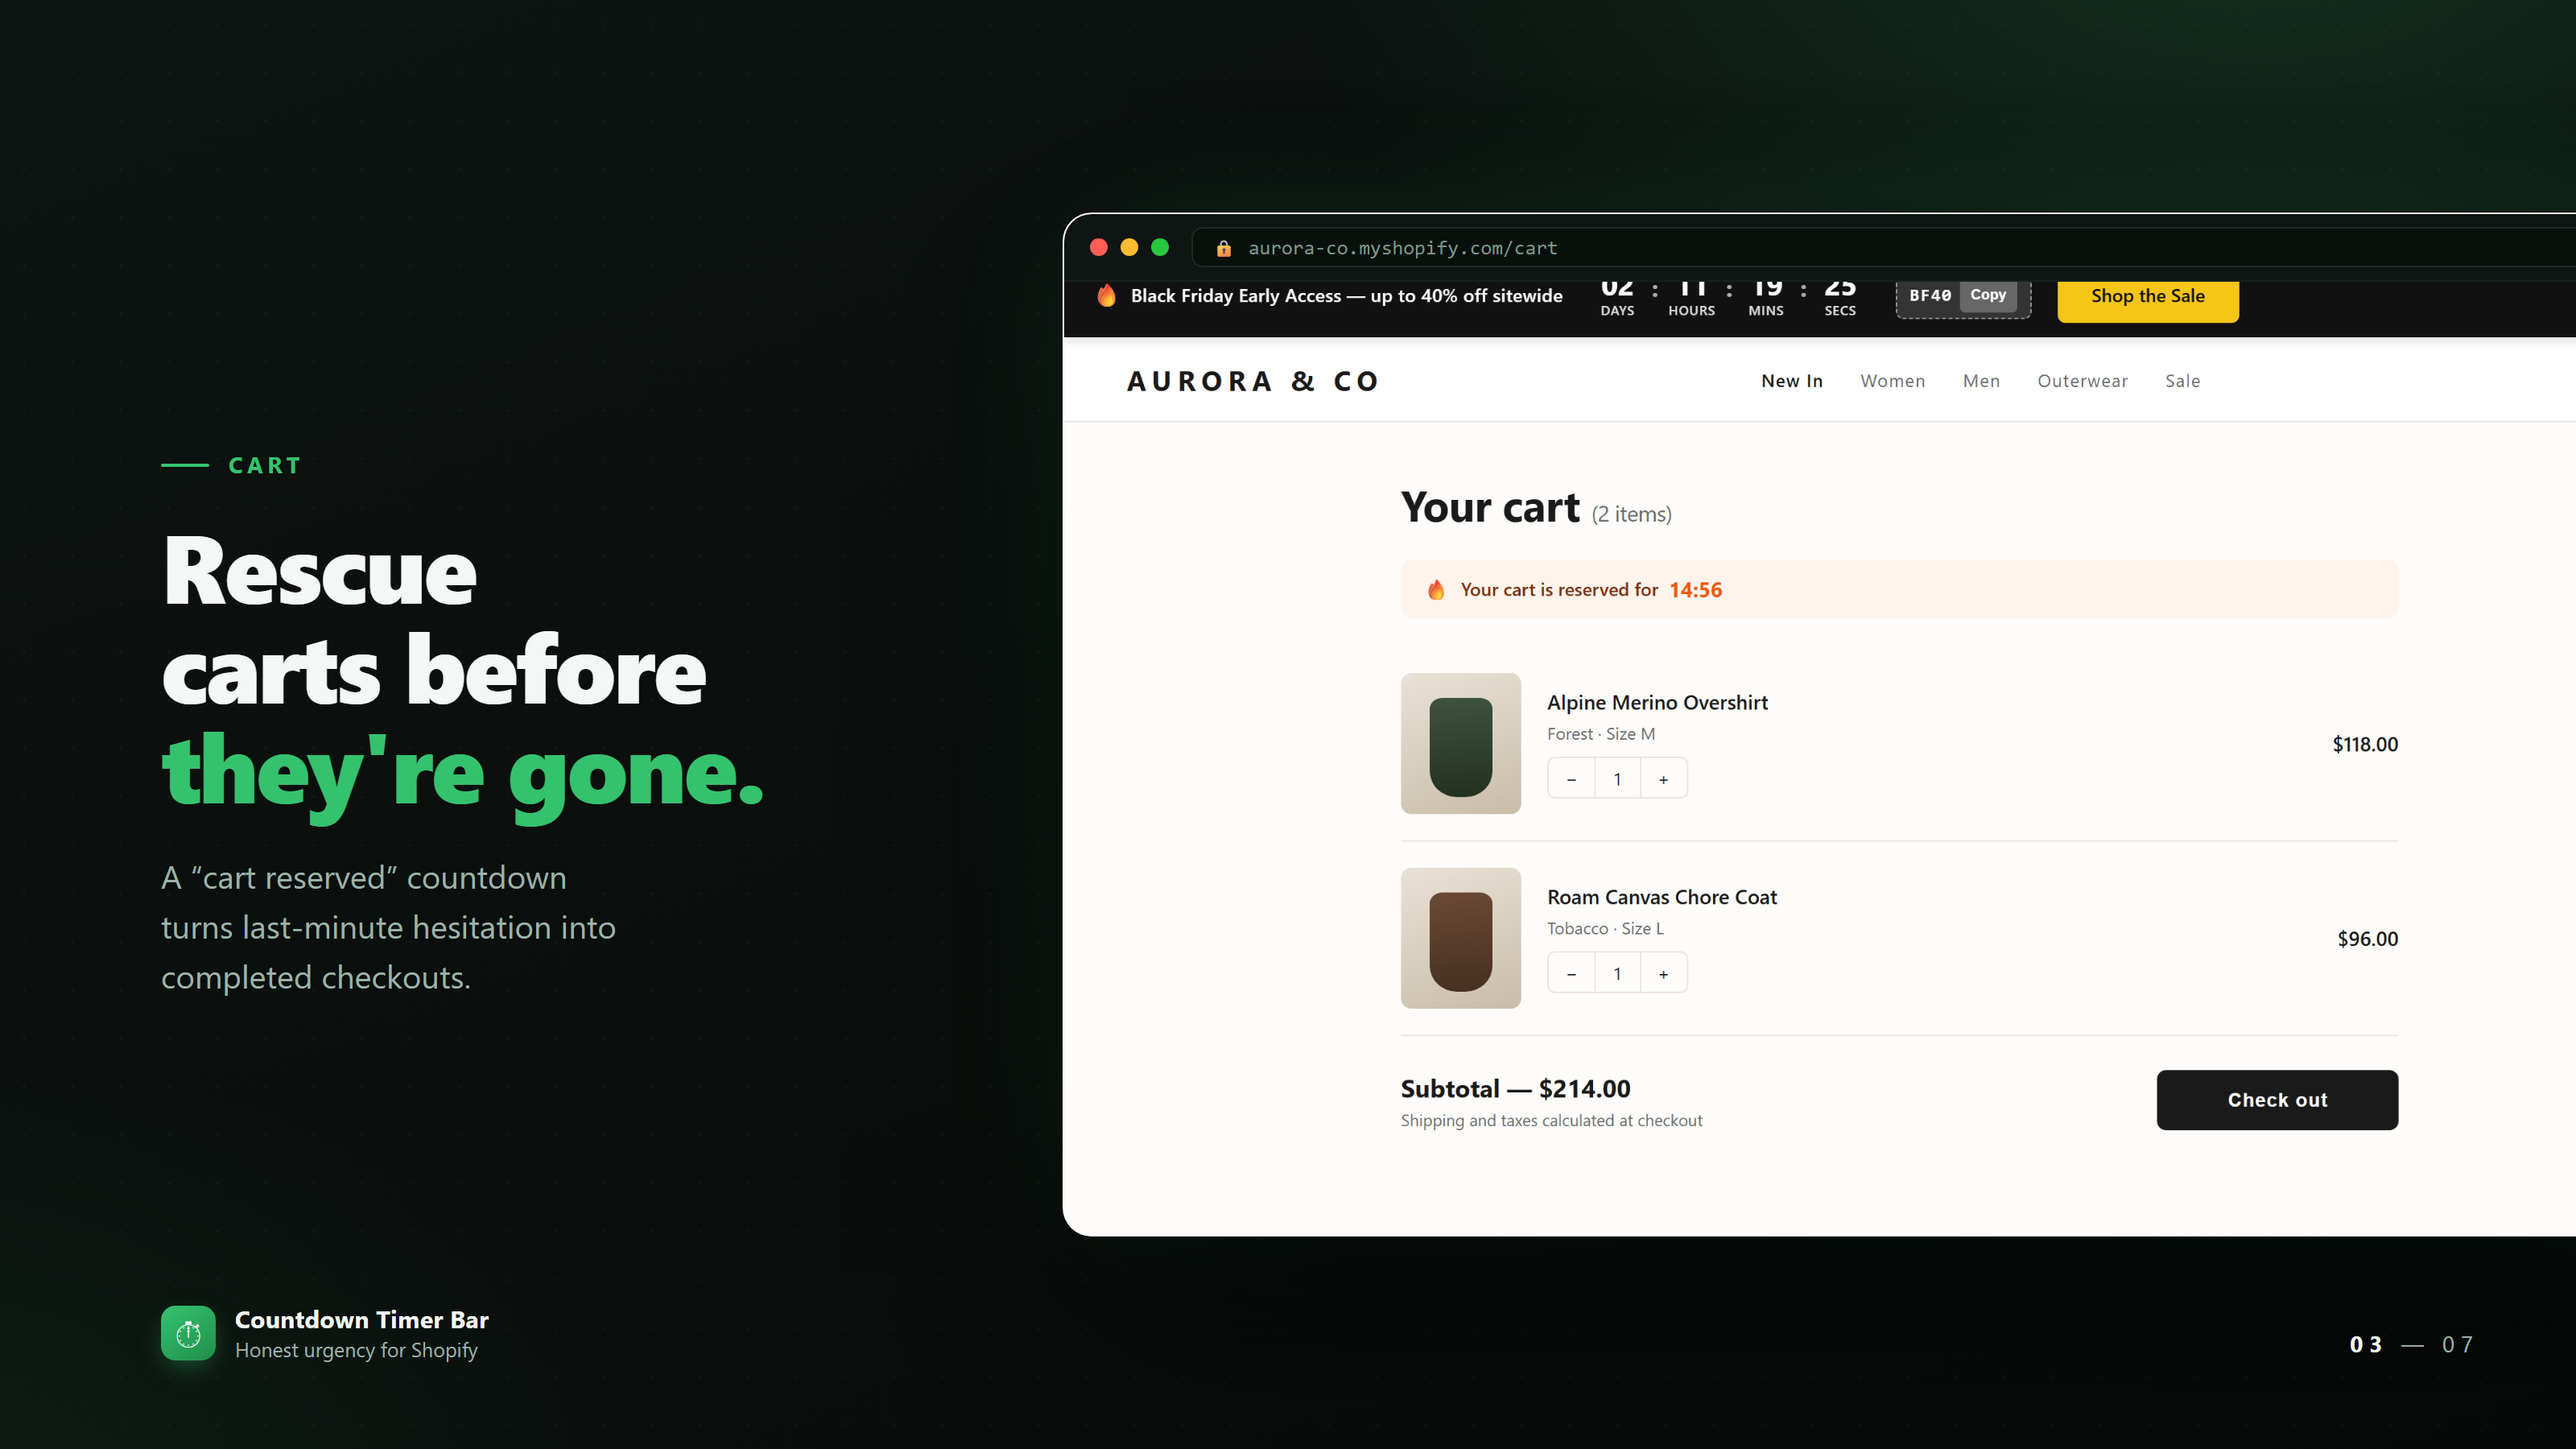
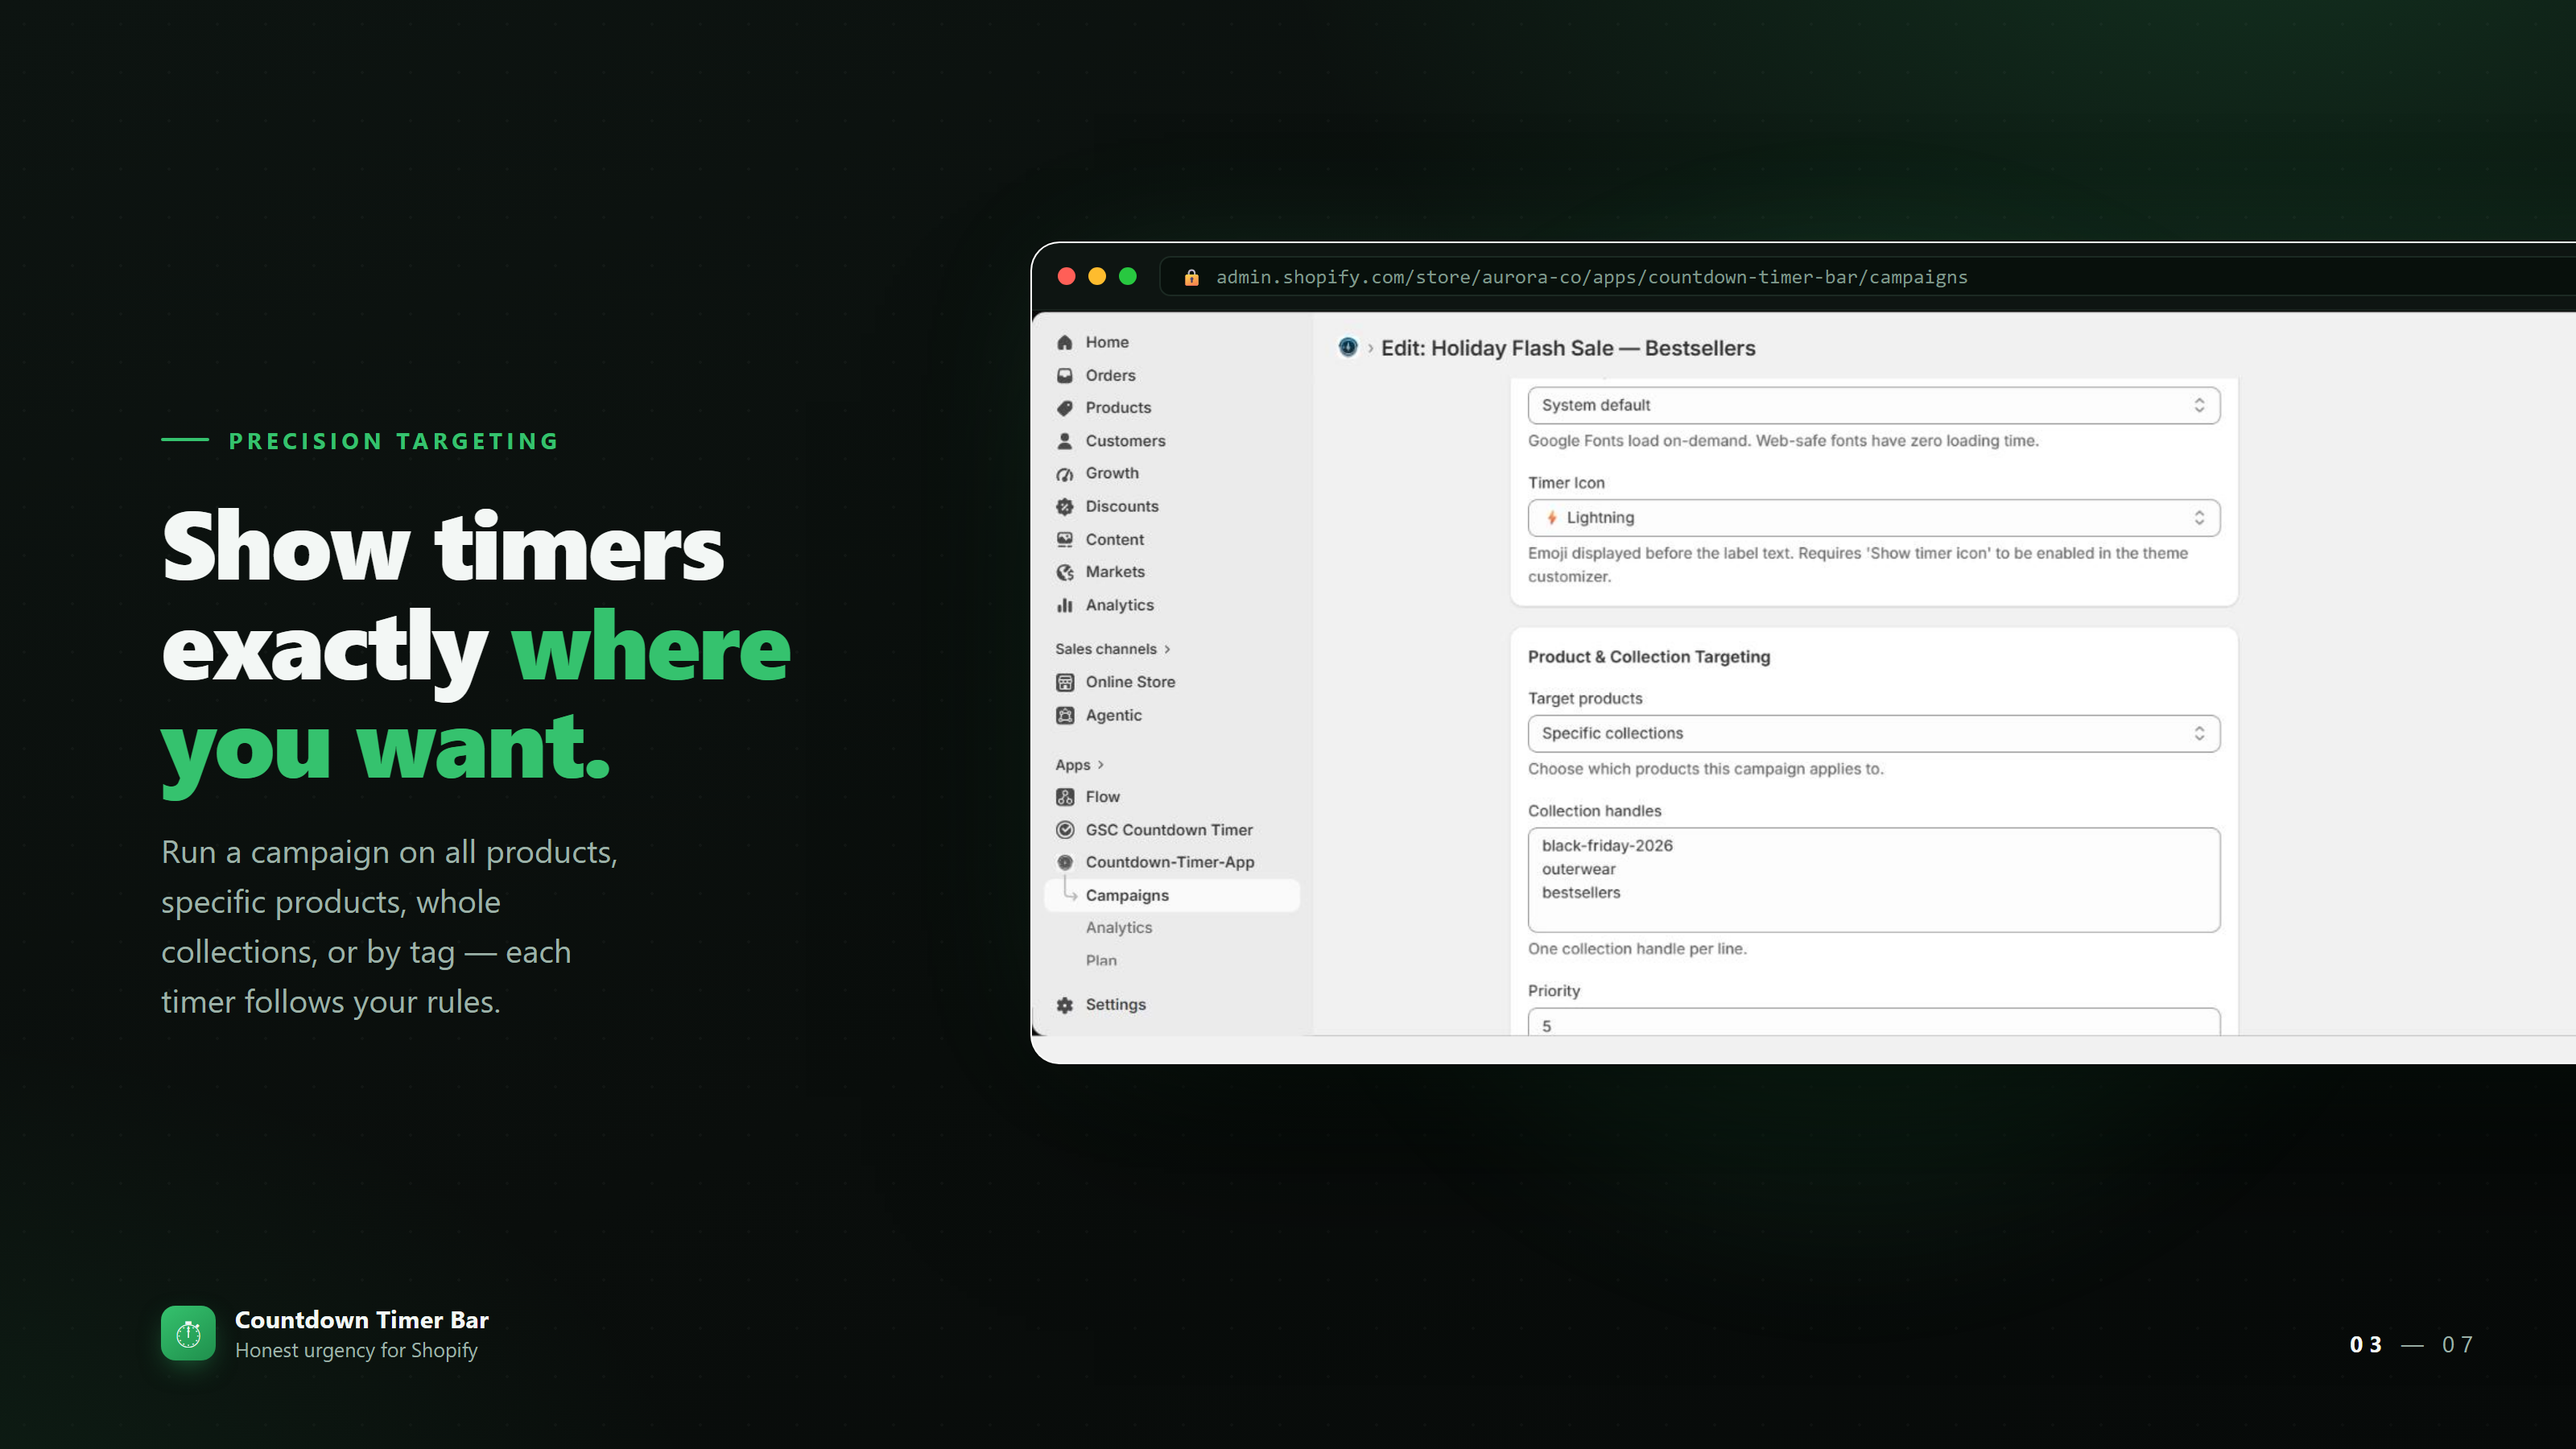
feat: replace cart slide with product & collection targeting (gallery slide 3)
Per product-owner direction, only feature slides verified end-to-end. The
cart reservation timer was verified at widget-code + block-install level but
not on a live store cart with items, so its dedicated slide is dropped.

Added slide 3 'Show timers exactly where you want' — real Product &
Collection Targeting UI captured live (Specific collections + collection
handles), dev chrome cropped, framed to match the other admin slides.
Gallery stays at 7 slides; README updated with the accuracy note.

diff --git a/docs/screenshots/gallery/slide-3.html b/docs/screenshots/gallery/slide-3.html
@@ -1,18 +1,18 @@
 <!doctype html><html lang="en"><head><meta charset="utf-8"><title>3</title><link rel="stylesheet" href="frame.css">
 <style>
-  .glow { width: 600px; height: 600px; right: 130px; top: 150px; }
-  .stage { left: 660px; top: 132px; width: 1040px; }
-  .screen { height: 636px; } .shot { height: 594px; object-position: center 34%; }
+  .glow { width: 700px; height: 700px; right: 100px; top: 110px; }
+  .stage { left: 640px; top: 150px; width: 1120px; }
+  .screen { height: auto; } .shot { height: auto; }
 </style></head><body>
   <div class="copy">
-    <div class="eyebrow">Cart</div>
-    <h1>Rescue carts before <em>they're gone.</em></h1>
-    <p class="sub">A “cart reserved” countdown turns last-minute hesitation into completed checkouts.</p>
+    <div class="eyebrow">Precision targeting</div>
+    <h1>Show timers exactly <em>where you want.</em></h1>
+    <p class="sub">Run a campaign on all products, specific products, whole collections, or by tag — each timer follows your rules.</p>
   </div>
   <div class="glow"></div>
   <div class="stage"><div class="screen">
-    <div class="chrome"><div class="dots"><i></i><i></i><i></i></div><div class="url"><span class="lk">🔒</span>aurora-co.myshopify.com/cart</div></div>
-    <img class="shot cover" src="../03-storefront-cart-timer.png" alt="">
+    <div class="chrome"><div class="dots"><i></i><i></i><i></i></div><div class="url"><span class="lk">🔒</span>admin.shopify.com/store/aurora-co/apps/countdown-timer-bar/campaigns</div></div>
+    <img class="shot" src="assets/adm-targeting.png" alt="">
   </div></div>
   <div class="wordmark"><span class="mark">⏱</span><span class="wm-txt"><b>Countdown Timer Bar</b><span>Honest urgency for Shopify</span></span></div>
   <div class="counter"><b>03</b> — 07</div>

diff --git a/docs/screenshots/README.md b/docs/screenshots/README.md
@@ -17,11 +17,16 @@ slide, benefit-first headlines, no arrows or callouts. Real product UI only.
 | 6   | `gallery-06.png` | Live in two minutes              | Campaign builder with live preview               |
 | 7   | `gallery-07.png` | Flawless on mobile, too          | Responsive storefront on a phone                 |
 
-**Accuracy:** every frame is real product UI. Slides 1–3 & 7 embed live
-storefront-widget captures; slides 4 & 6 use live admin captures (real seeded
-data — 37,271 impressions · 1,926 clicks · 5.2% CTR) with dev-mode chrome
-cropped out; slide 5 stacks three genuine live bar renders. No mockups, no
-invented features, no arrows/callouts.
+**Accuracy:** every frame is real product UI. Slides 1–2 & 7 embed live
+storefront-widget captures; slides 3, 4 & 6 use live admin captures (real
+seeded data — 37,271 impressions · 1,926 clicks · 5.2% CTR) with dev-mode
+chrome cropped out; slide 5 stacks three genuine live bar renders. No mockups,
+no invented features, no arrows/callouts.
+
+> The app also ships a **cart reservation timer**, but it is intentionally
+> **not** featured as a dedicated slide: it was verified at the widget-code and
+> block-install level but not observed end-to-end on a live store cart with
+> items, so it was left out rather than shown on a claim not fully tested.
 
 ### Regenerating the gallery
 
